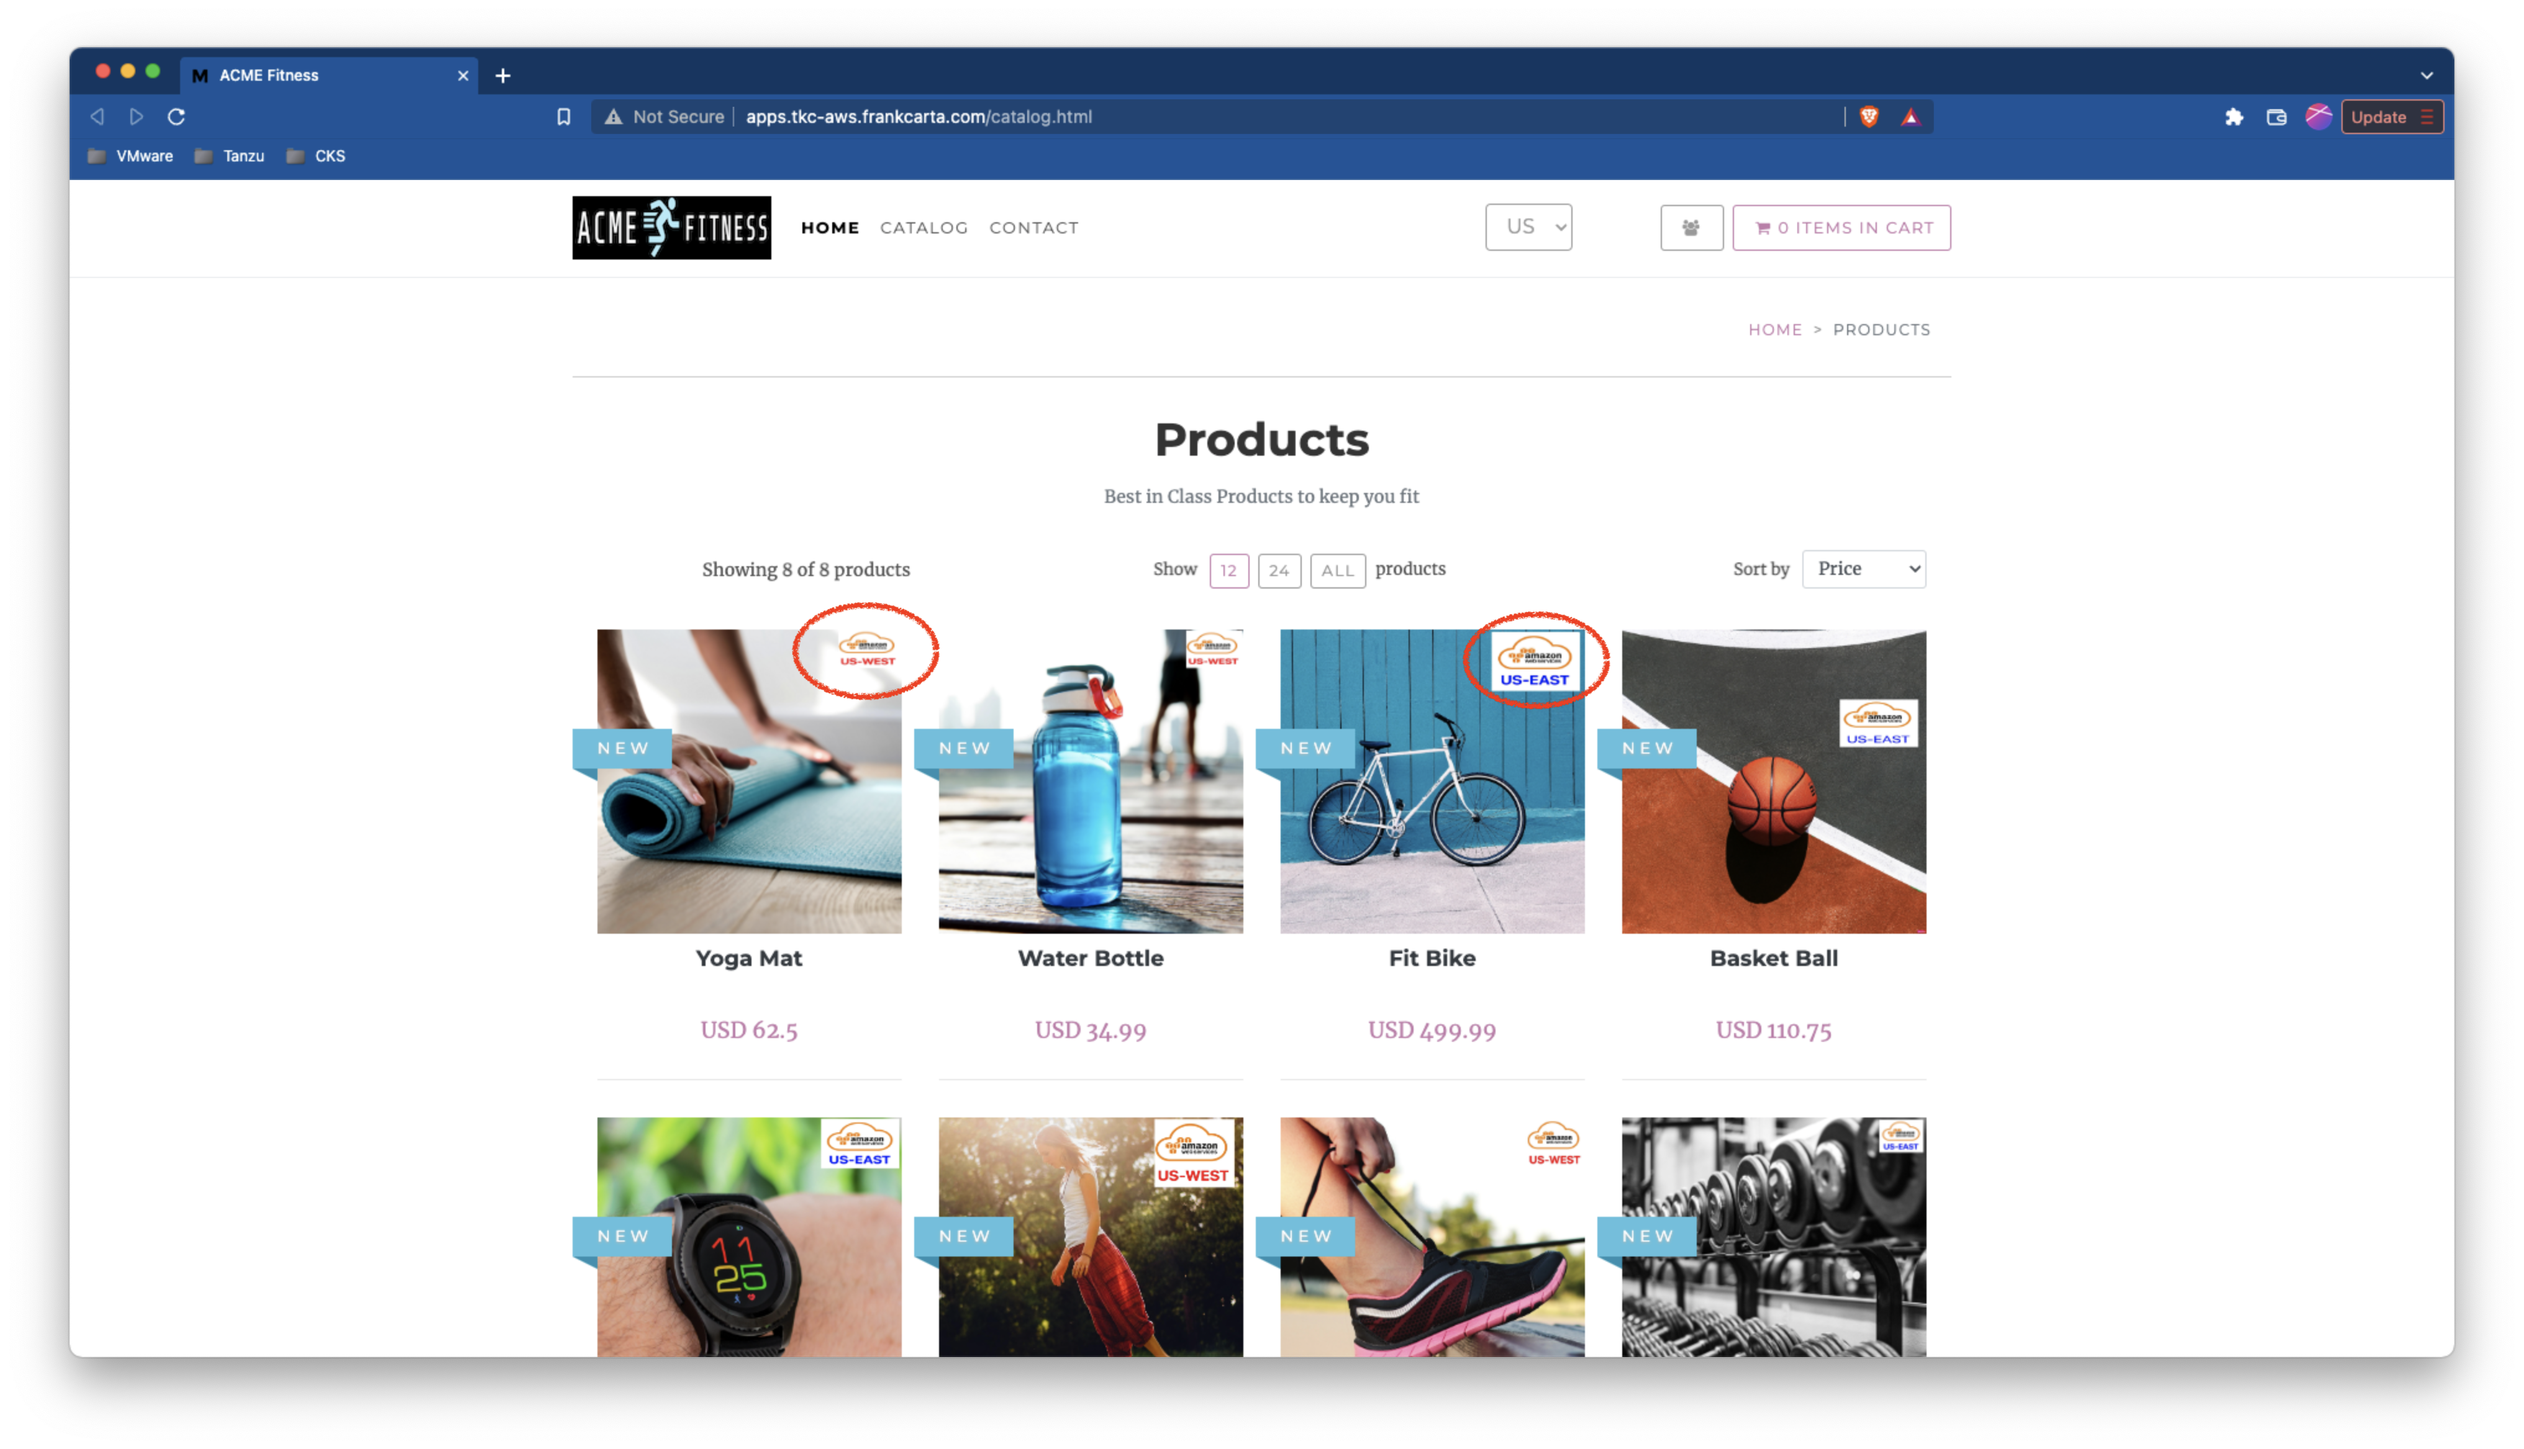
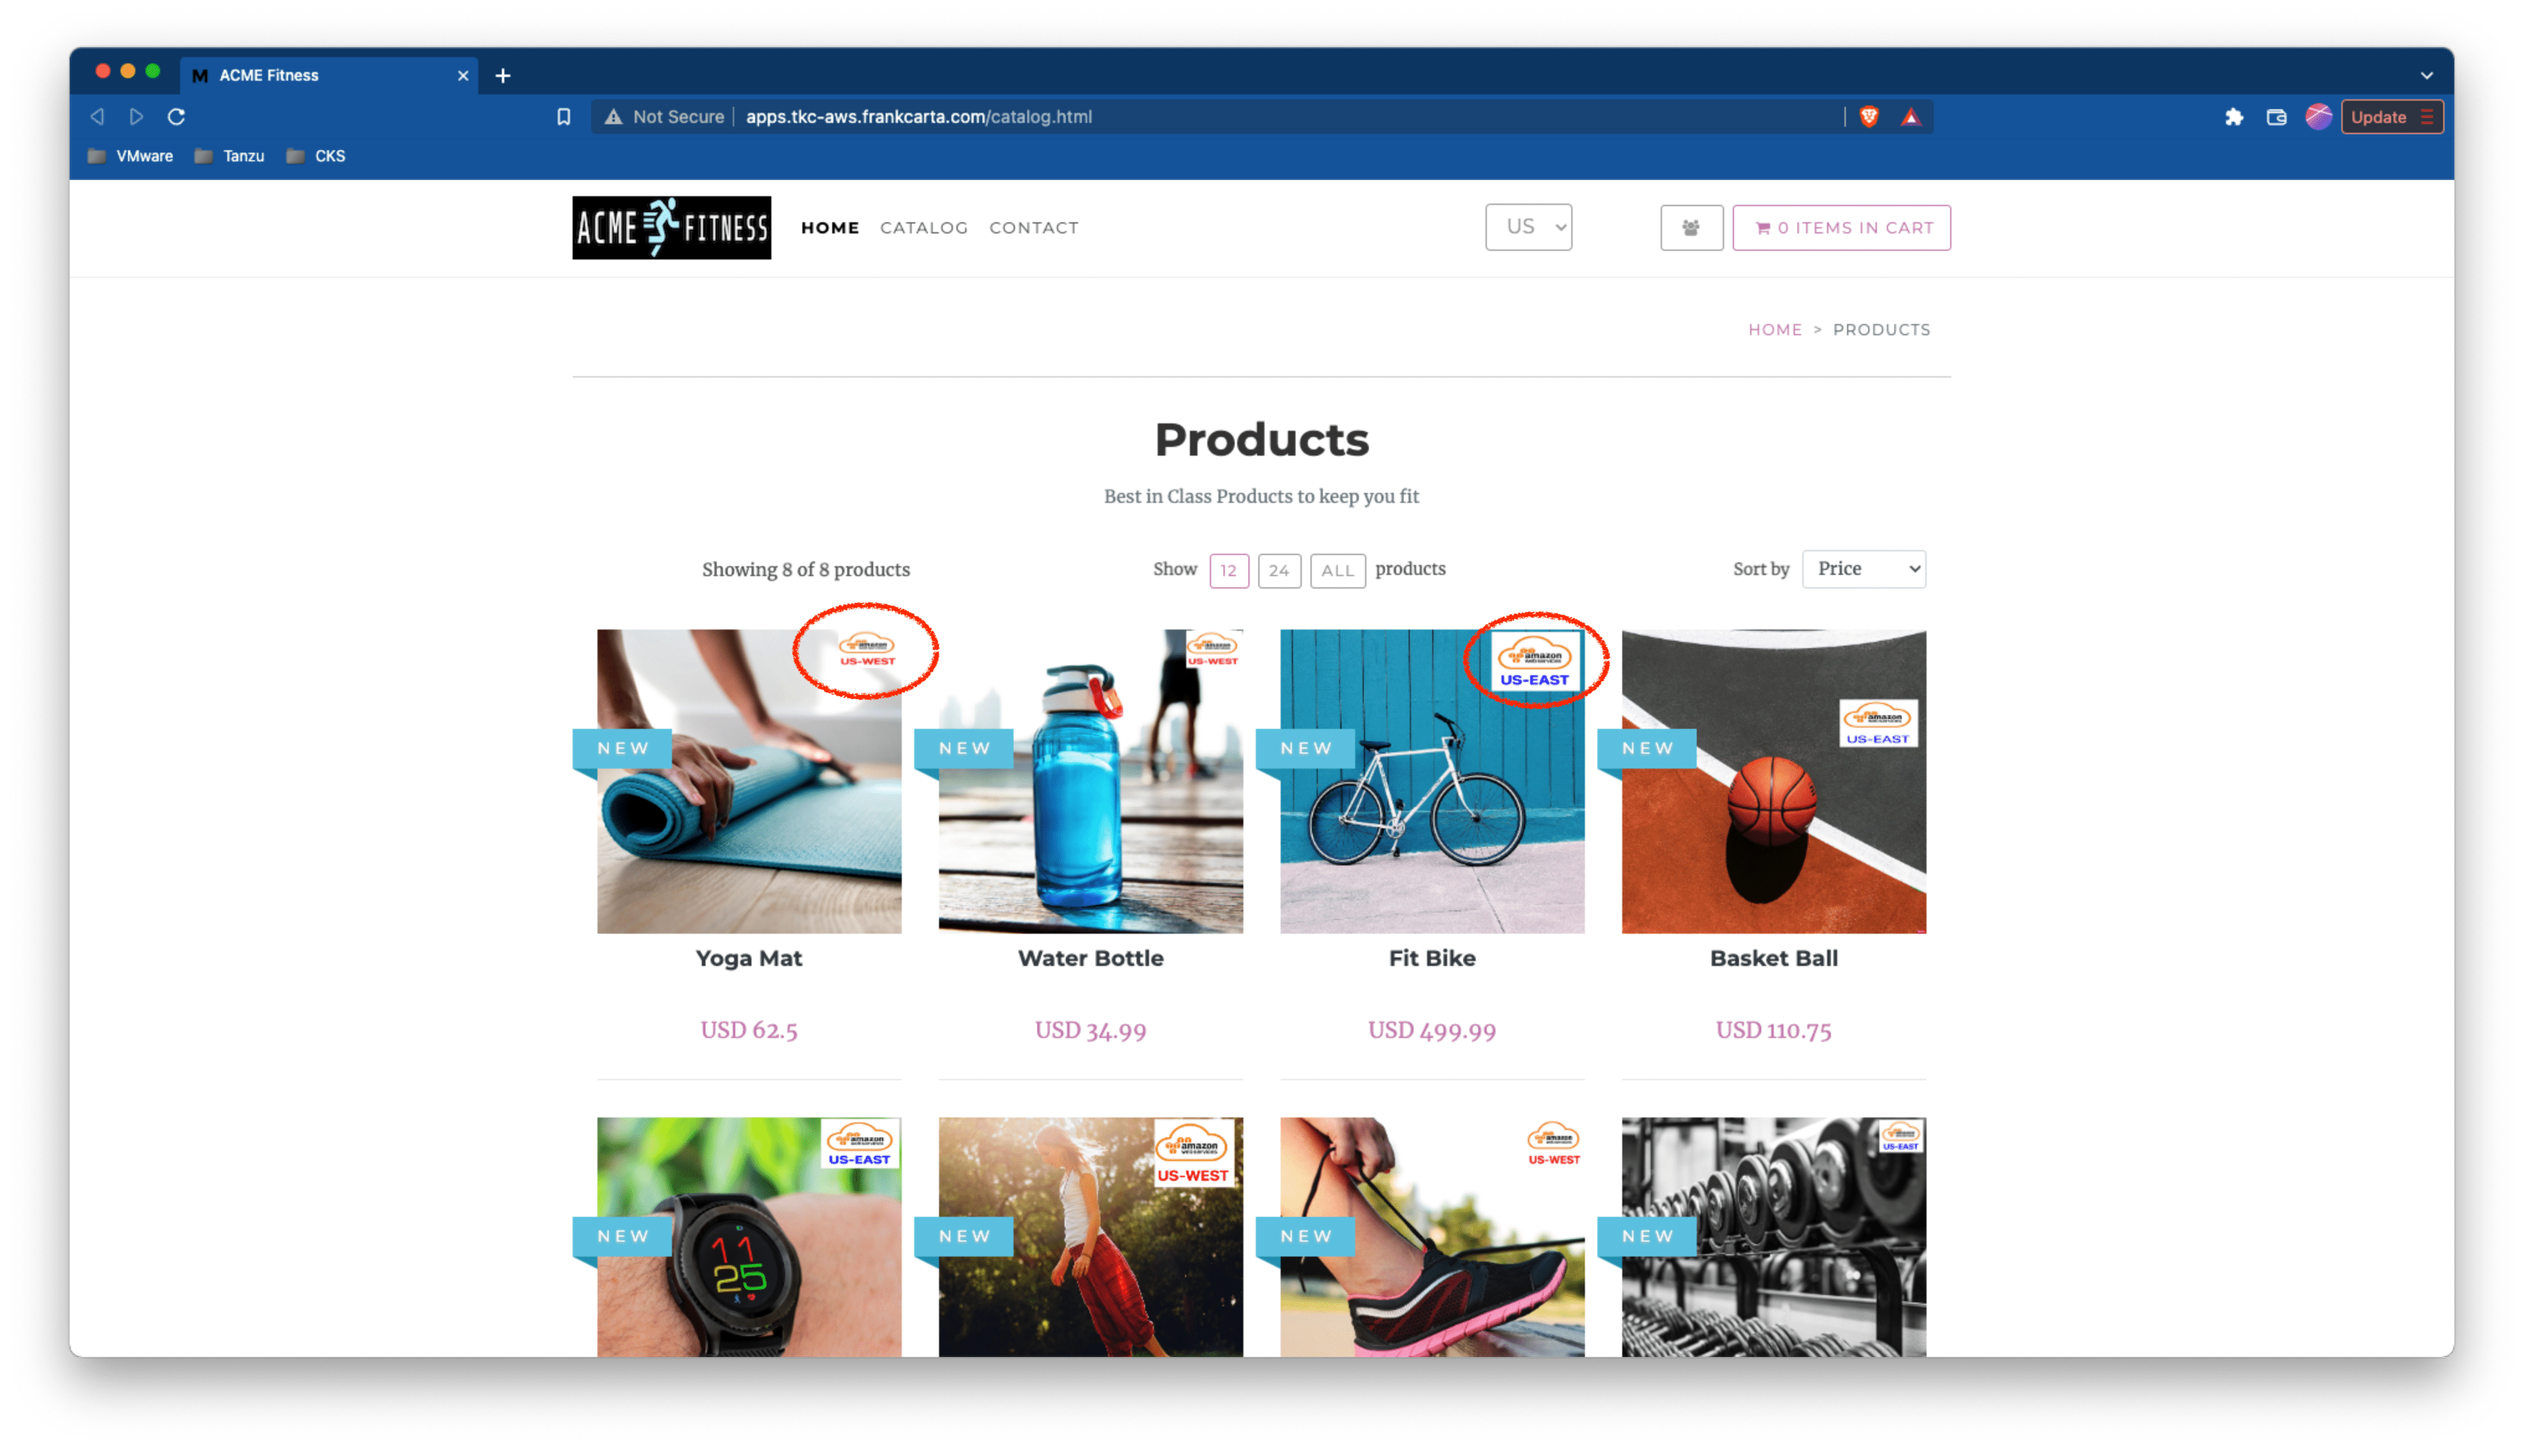
Updating Application Deployment for ACME Fitness

diff --git a/scenarios/sc03-application-deployment/sc03-tc01-acme-fitness-application.md b/scenarios/sc03-application-deployment/sc03-tc01-acme-fitness-application.md
@@ -12,9 +12,9 @@ This scenario test case captures how to deploy the ACME Fitness sample applicati
 
 ## Prerequisites
 
-* Completion of TSM Console access [SC01-TC01](../sc01-environment-setup/sc01-tc01-validate-tsm-console.md)
+* Completion of Validating TSM Console Access [SC01-TC01](../sc01-environment-setup/sc01-tc01-validate-tsm-console.md)
 * For Kubernetes Cluster `${KUBERNETES_CLUSTER1}` completion of TSM Onboarding [SC02-TC01](../sc02-cluster-onboarding/sc02-tc01-onboard-tsm-ui.md) or [SC02-TC02](../sc02-cluster-onboarding/sc02-tc02-onboard-tmc.md) or [SC02-TC03](../sc02-cluster-onboarding/sc02-tc03-onboard-tsm-api.md)
-* Valid `kubeconfig` and token for targeted Kubernetes Cluster
+* Valid `kubeconfig` for targeted Kubernetes Cluster `${KUBERNETES_CLUSTER1}`
 
 ---
 
@@ -57,7 +57,7 @@ This scenario test case captures how to deploy the ACME Fitness sample applicati
 
     Expected:<pre>
     ...
-    <b><font color="yellow">${KUBERNETES_CLUSTER1_NAMESPACE}</font><b>
+    <b><font color="yellow">${KUBERNETES_CLUSTER1_NAMESPACE}</font></b>
     istio-system
     kapp-controller
     kube-node-lease
@@ -91,7 +91,8 @@ This scenario test case captures how to deploy the ACME Fitness sample applicati
     kubectl apply -f scenarios/files/acme-fitness-app/app/acme-secrets.yaml
     kubectl apply -f scenarios/files/acme-fitness-app/app/acme-fitness-catalog-west.yaml
     ```
-
+    > **_NOTE:_**  This will only deploy the version of catalog service with the `US-WEST` watermarked images.
+    
     Expected:<pre>
     deployment.apps/cart-redis created
     service/cart created
@@ -181,7 +182,7 @@ This scenario test case captures how to deploy the ACME Fitness sample applicati
 
     ---
     ACME Fitness Application (as seen in the browser)
-    ![ACME Fitness Application](../images/acme-fitness-home.png)
+    ![ACME Fitness Application](../images/acme-fitness-home-west.png)
 
 7. In order for the Service Topology to build out in the TSM console lets generate some traffic for the ACME Fitness Application.
 
@@ -204,7 +205,7 @@ This scenario test case captures how to deploy the ACME Fitness sample applicati
     NAME                            READY   STATUS    RESTARTS   AGE
     cart-844fcb9497-qkc4x           2/2     Running   0          11m
     cart-redis-df554fbb7-vs5m6      2/2     Running   0          11m
-    <b><font color="yellow">loadgenerator-fbfdf7d99-jkb9g   2/2     Running   0          10s</font><b>
+    <b><font color="yellow">loadgenerator-fbfdf7d99-jkb9g   2/2     Running   0          10s</font></b>
     order-55b6987599-l42xj          2/2     Running   0          11m
     order-mongo-7ccdbd8869-mj8qc    2/2     Running   0          11m
     payment-6977b8df86-rmfph        2/2     Running   0          11m

diff --git a/scenarios/sc02-cluster-onboarding/sc02-tc03-onboard-tsm-api.md b/scenarios/sc02-cluster-onboarding/sc02-tc03-onboard-tsm-api.md
@@ -22,7 +22,7 @@ This scenario test case captures how to onboard a Kubernetes cluster to Tanzu Se
 ## Prerequisites
 
 * Completion of Validating TSM Console Access [SC01-TC01](../sc01-environment-setup/sc01-tc01-validate-tsm-console.md)
-* Valid `kubeconfig` for targeted Kubernetes Cluster
+* Valid `kubeconfig` for targeted Kubernetes Cluster `${KUBERNETES_CLUSTER1}`
 
 ---
 
